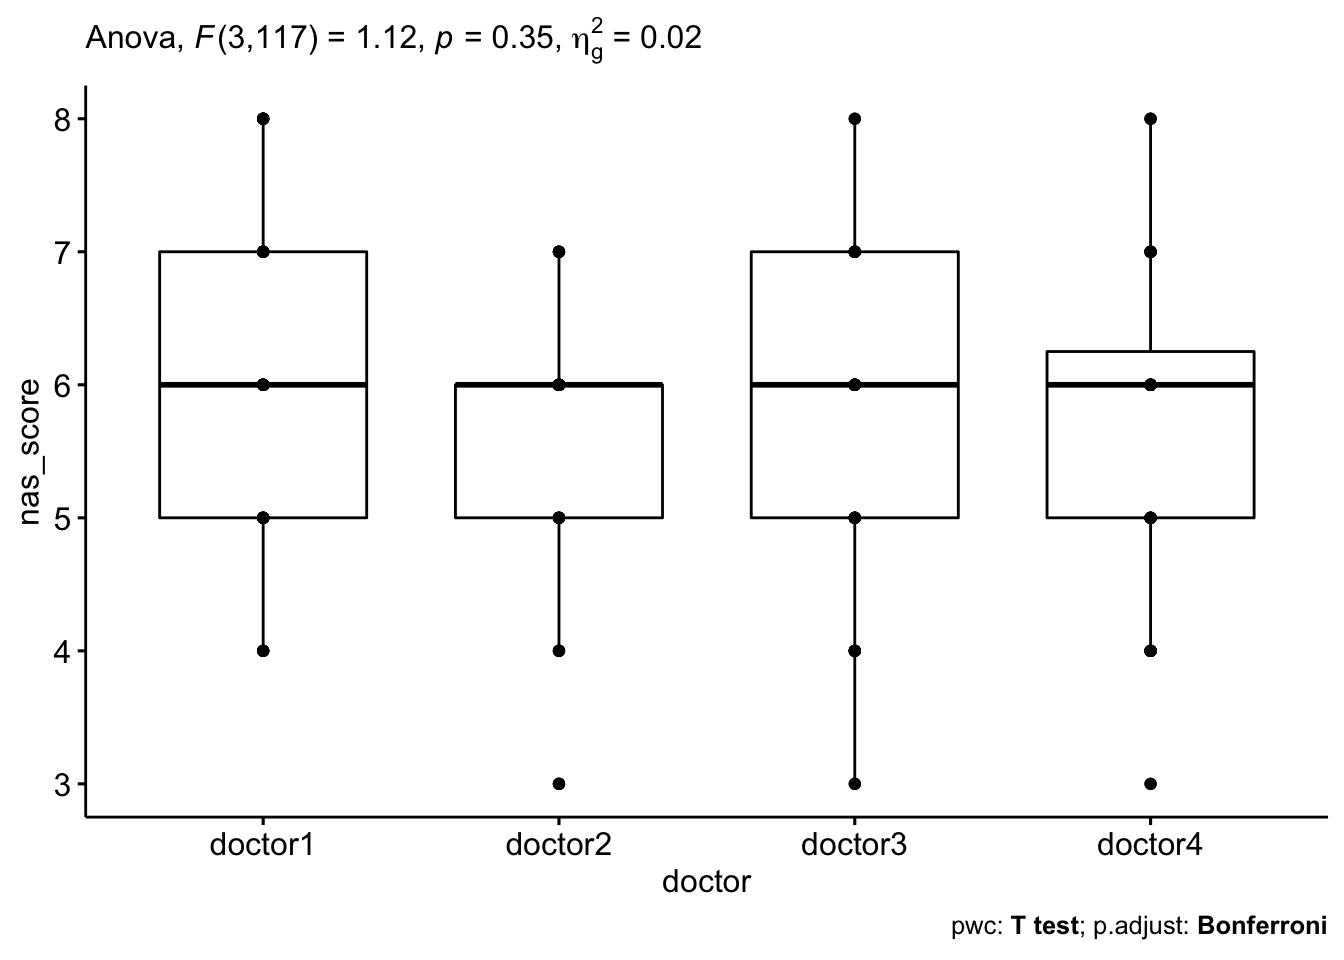
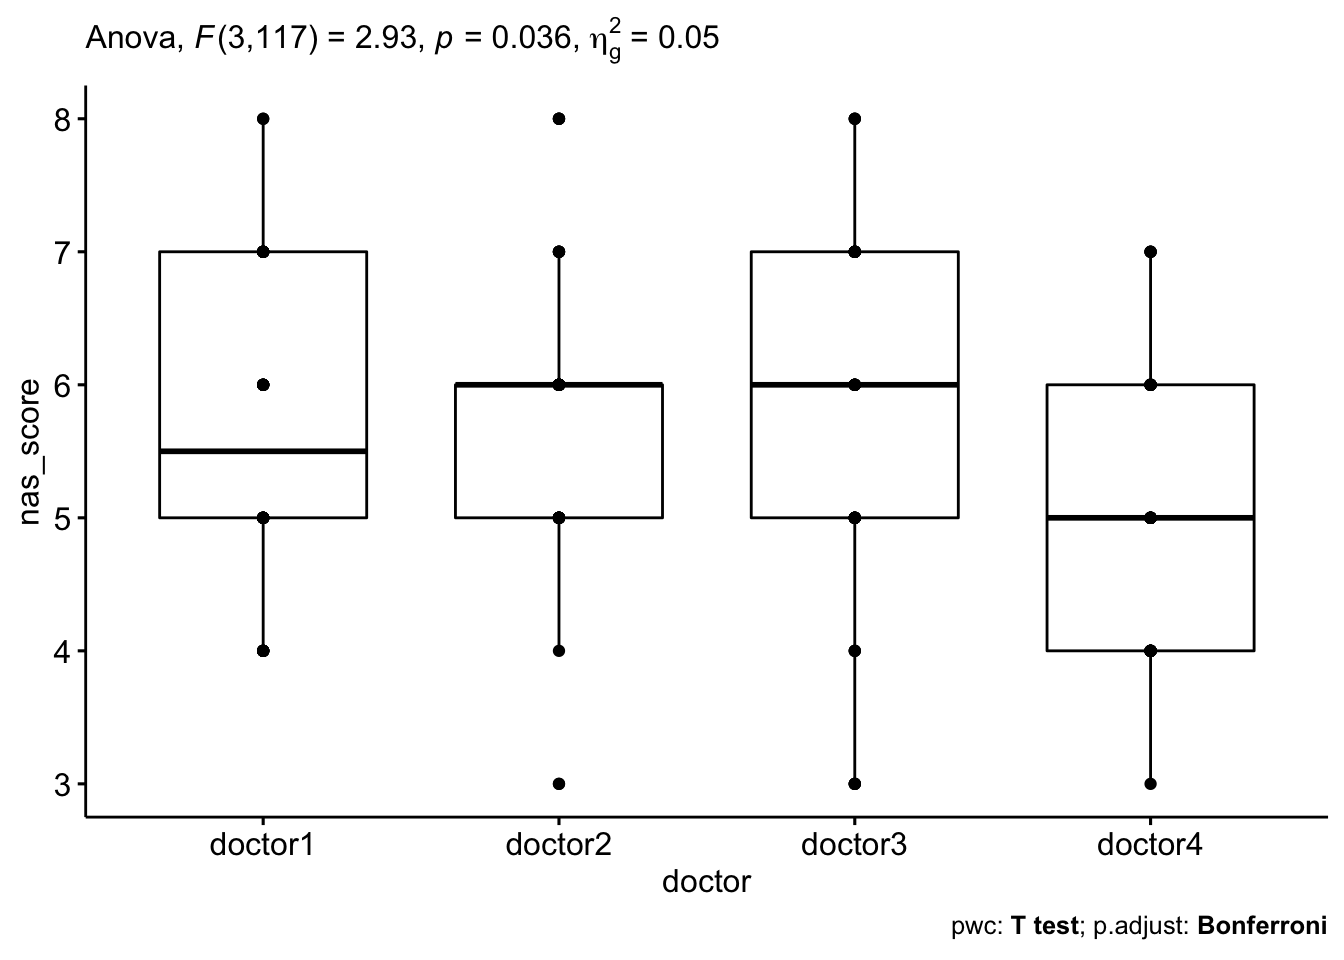
jpg updated all

diff --git a/NAS.html b/NAS.html
@@ -317,7 +317,7 @@ $(document).ready(function () {
 <div id="background" class="section level4">
 <h4>Background</h4>
 <p>Nonalcoholic fatty liver disease(NAFLD) is characterized by hepatic steatosis in the absence of a history of significant alcohol use or other known liver disease. Nonalcoholic steatohepatitis (NASH) is the progressive form of NAFLD.</p>
-<p><img src="images/NAS_component.pdf" style="width:100%"></p>
+<p><img src="images/NAS_component.jpg" style="width:100%"></p>
 </div>
 <div id="research-question" class="section level3">
 <h3>Research Question</h3>
@@ -367,19 +367,19 @@ mydata_long &lt;- mydata %&gt;%
 <pre><code>## # A tibble: 3 x 5
 ##   doctor  id    nas_score is.outlier is.extreme
 ##   &lt;fct&gt;   &lt;fct&gt;     &lt;dbl&gt; &lt;lgl&gt;      &lt;lgl&gt;     
-## 1 doctor2 18            3 TRUE       FALSE     
-## 2 doctor2 25            3 TRUE       FALSE     
-## 3 doctor4 10            3 TRUE       FALSE</code></pre>
+## 1 doctor2 21            8 TRUE       FALSE     
+## 2 doctor2 23            3 TRUE       FALSE     
+## 3 doctor2 26            8 TRUE       FALSE</code></pre>
 <pre class="r"><code>mydata_long %&gt;%
   group_by(doctor) %&gt;%
   shapiro_test(nas_score)</code></pre>
 <pre><code>## # A tibble: 4 x 4
-##   doctor  variable  statistic         p
-##   &lt;fct&gt;   &lt;chr&gt;         &lt;dbl&gt;     &lt;dbl&gt;
-## 1 doctor1 nas_score     0.914 0.00491  
-## 2 doctor2 nas_score     0.826 0.0000252
-## 3 doctor3 nas_score     0.927 0.0126   
-## 4 doctor4 nas_score     0.928 0.0143</code></pre>
+##   doctor  variable  statistic        p
+##   &lt;fct&gt;   &lt;chr&gt;         &lt;dbl&gt;    &lt;dbl&gt;
+## 1 doctor1 nas_score     0.897 0.00159 
+## 2 doctor2 nas_score     0.888 0.000891
+## 3 doctor3 nas_score     0.921 0.00811 
+## 4 doctor4 nas_score     0.900 0.00195</code></pre>
 </div>
 <div id="test" class="section level4">
 <h4>Test</h4>
@@ -388,7 +388,7 @@ get_anova_table(res.aov)</code></pre>
 <pre><code>## ANOVA Table (type III tests)
 ## 
 ##   Effect DFn DFd     F     p p&lt;.05   ges
-## 1 doctor   3 117 1.116 0.346       0.021</code></pre>
+## 1 doctor   3 117 2.933 0.036     * 0.051</code></pre>
 <pre class="r"><code>### pairwise comparisons
 pwc &lt;- mydata_long %&gt;%
   pairwise_t_test(
@@ -399,12 +399,12 @@ pwc</code></pre>
 <pre><code>## # A tibble: 6 x 10
 ##   .y.       group1  group2     n1    n2 statistic    df     p p.adj p.adj.signif
 ## * &lt;chr&gt;     &lt;chr&gt;   &lt;chr&gt;   &lt;int&gt; &lt;int&gt;     &lt;dbl&gt; &lt;dbl&gt; &lt;dbl&gt; &lt;dbl&gt; &lt;chr&gt;       
-## 1 nas_score doctor1 doctor2    40    40    1.80      39 0.08  0.481 ns          
-## 2 nas_score doctor1 doctor3    40    40    1.24      39 0.224 1     ns          
-## 3 nas_score doctor1 doctor4    40    40    1.60      39 0.117 0.702 ns          
-## 4 nas_score doctor2 doctor3    40    40   -0.422     39 0.675 1     ns          
-## 5 nas_score doctor2 doctor4    40    40   -0.250     39 0.804 1     ns          
-## 6 nas_score doctor3 doctor4    40    40    0.0844    39 0.933 1     ns</code></pre>
+## 1 nas_score doctor1 doctor2    40    40    -0.498    39 0.621 1     ns          
+## 2 nas_score doctor1 doctor3    40    40    -0.182    39 0.857 1     ns          
+## 3 nas_score doctor1 doctor4    40    40     2.17     39 0.036 0.215 ns          
+## 4 nas_score doctor2 doctor3    40    40     0.292    39 0.772 1     ns          
+## 5 nas_score doctor2 doctor4    40    40     2.83     39 0.007 0.044 *           
+## 6 nas_score doctor3 doctor4    40    40     2.37     39 0.023 0.136 ns</code></pre>
 </div>
 </div>
 <div id="visualization" class="section level3">

diff --git a/movie_recommendation.html b/movie_recommendation.html
@@ -393,13 +393,13 @@ div.tocify {
 </div>
 <div id="what-have-i-done" class="section level3">
 <h3>What Have I done?</h3>
-<p><img src="images/moviedata.pdf" style="width:70%"></p>
-<p><img src="images/pipeline.pdf" style="width:70%"></p>
-<p><img src="images/model.pdf" style="width:70%"></p>
+<p><img src="images/moviedata.jpg" style="width:70%"></p>
+<p><img src="images/pipeline.jpg" style="width:70%"></p>
+<p><img src="images/model.jpg" style="width:70%"></p>
 </div>
 <div id="what-do-i-create" class="section level3">
 <h3>What Do I create?</h3>
-<p><img src="images/interface.pdf" style="width:70%"></p>
+<p><img src="images/interface.jpg" style="width:70%"></p>
 </div>
 
 
